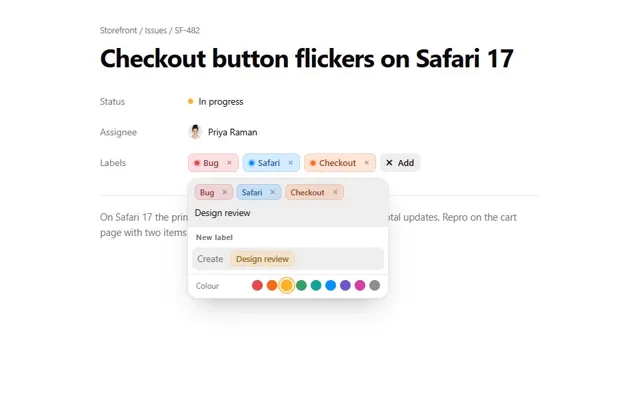
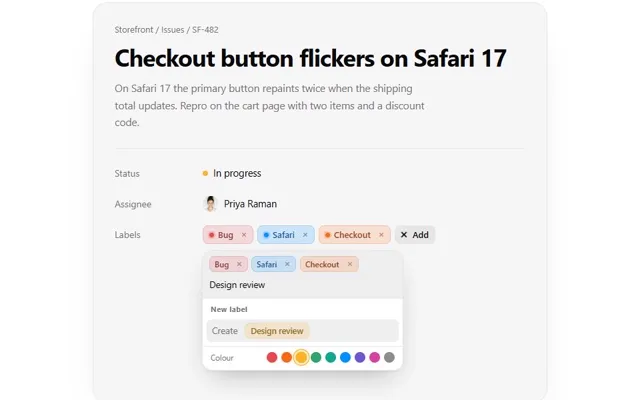
morph-filter-bar, inline-label-composer: popovers open over space, demos sized up
- filter picker drops below its chip row, leaves a dashed ghost in the + slot, and the
  demo dims and blurs the issue list behind it (new onOpenChange prop); bar sits above
  the list's stacking context so row rules no longer bleed through
- filter demo is 780 px wide with larger rows
- label demo is a 680 px issue panel with the description above the properties, so the
  picker opens over the panel's open space

diff --git a/components/morph-filter-bar/morph-filter-bar.tsx b/components/morph-filter-bar/morph-filter-bar.tsx
@@ -10,6 +10,8 @@ export type MorphFilterBarProps = {
   fields: FilterField[]
   defaultValue?: AppliedFilter[]
   onChange?: (filters: AppliedFilter[]) => void
+  /** Called when the picker opens or closes, e.g. to dim the results behind it. */
+  onOpenChange?: (open: boolean) => void
   title?: string
   className?: string
 }
@@ -49,7 +51,7 @@ const SOFT =
 
 const CSS =
   ".mfb-root{--mfb-ink:#121212;--mfb-ink2:#1f1f1f;--mfb-lime:#d6ff5c;--mfb-text:#f4f4ef;--mfb-dim:rgba(244,244,239,.5);--mfb-chip:#fff;--mfb-cink:#18181a;--mfb-cdim:#76767c;--mfb-spring:" + SPRING + ";--mfb-soft:" + SOFT + ";" +
-  "font-family:'Inter Tight','Geist',ui-sans-serif,system-ui,sans-serif;-webkit-font-smoothing:antialiased;color:var(--color-foreground);animation:mfb-in .6s var(--mfb-soft) both}" +
+  "position:relative;z-index:2;font-family:'Inter Tight','Geist',ui-sans-serif,system-ui,sans-serif;-webkit-font-smoothing:antialiased;color:var(--color-foreground);animation:mfb-in .6s var(--mfb-soft) both}" +
   ".mfb-title{display:flex;align-items:baseline;gap:10px;margin:0 0 12px;font-size:13px;font-weight:650;letter-spacing:-.01em}" +
   ".mfb-title span{font-size:12px;font-weight:550;color:var(--color-muted-foreground);font-variant-numeric:tabular-nums}" +
   ".mfb-clear{margin-left:auto;border:0;background:none;padding:2px 4px;border-radius:6px;font:inherit;font-size:12px;font-weight:600;color:var(--color-muted-foreground);cursor:pointer;outline:none}" +
@@ -70,8 +72,10 @@ const CSS =
   ".mfb-add{position:relative;width:36px;height:34px;flex:none}" +
   ".mfb-morph{position:absolute;z-index:30;top:0;left:0;width:36px;height:34px;border-radius:11px;overflow:hidden;color:var(--mfb-text);" +
   "background:radial-gradient(120% 90% at 0% 0%,#2b2b2b,var(--mfb-ink) 60%);box-shadow:inset 0 1px 0 rgba(255,255,255,.1),0 1px 2px rgba(0,0,0,.25),0 8px 18px -8px rgba(0,0,0,.45);" +
-  "transition:width .55s var(--mfb-spring),height .55s var(--mfb-spring),border-radius .45s var(--mfb-soft),box-shadow .3s}" +
-  ".mfb-root[data-open=true] .mfb-morph{width:min(272px,calc(100vw - 48px));border-radius:16px;box-shadow:inset 0 1px 0 rgba(255,255,255,.1),0 2px 4px rgba(0,0,0,.2),0 24px 50px -16px rgba(0,0,0,.55),0 50px 90px -40px rgba(30,40,0,.45)}" +
+  "transition:width .55s var(--mfb-spring),height .55s var(--mfb-spring),top .5s var(--mfb-spring),border-radius .45s var(--mfb-soft),box-shadow .3s}" +
+  ".mfb-add::before{content:'';position:absolute;inset:0;border-radius:11px;outline:1.5px dashed color-mix(in oklab,var(--color-foreground) 28%,transparent);outline-offset:-1.5px;opacity:0;transition:opacity .25s}" +
+  ".mfb-root[data-open=true] .mfb-add::before{opacity:1}" +
+  ".mfb-root[data-open=true] .mfb-morph{top:44px;width:min(272px,calc(100vw - 48px));border-radius:16px;box-shadow:inset 0 1px 0 rgba(255,255,255,.1),0 2px 4px rgba(0,0,0,.2),0 24px 50px -16px rgba(0,0,0,.55),0 50px 90px -40px rgba(30,40,0,.45)}" +
   ".mfb-plus{position:absolute;inset:0;width:36px;height:34px;display:grid;place-items:center;border:0;background:none;color:inherit;cursor:pointer;outline:none;border-radius:11px;transition:opacity .2s,transform .45s var(--mfb-spring)}" +
   ".mfb-plus:hover svg{transform:rotate(90deg)}.mfb-plus svg{transition:transform .45s var(--mfb-spring)}" +
   ".mfb-plus:focus-visible{box-shadow:inset 0 0 0 2px var(--mfb-lime)}" +
@@ -108,7 +112,7 @@ const Glyph = ({ d, size = 14 }: { d: string; size?: number }) => (
 
 const Mark = ({ o }: { o?: FilterOption }) => (o?.avatar ? <img className="mfb-av" src={o.avatar} alt="" width={18} height={18} /> : o?.swatch ? <span className="mfb-sw" style={{ background: o.swatch }} /> : null)
 
-export function MorphFilterBar({ fields, defaultValue = [], onChange, title = "Filters", className }: MorphFilterBarProps) {
+export function MorphFilterBar({ fields, defaultValue = [], onChange, onOpenChange, title = "Filters", className }: MorphFilterBarProps) {
   const id = useId()
   const [applied, setApplied] = useState(defaultValue)
   const [leaving, setLeaving] = useState("")
@@ -139,6 +143,10 @@ export function MorphFilterBar({ fields, defaultValue = [], onChange, title = "F
   }, [open])
 
   useEffect(() => () => clearTimeout(timer.current), [])
+
+  useEffect(() => {
+    onOpenChange?.(open)
+  }, [open])
 
   const commit = (next: AppliedFilter[]) => {
     setApplied(next)

diff --git a/components/inline-label-composer/demo.tsx b/components/inline-label-composer/demo.tsx
@@ -23,41 +23,53 @@ export default function Demo() {
         display: "flex",
         justifyContent: "center",
         alignItems: "flex-start",
-        padding: "max(48px, 12vh) 16px 48px",
+        padding: "max(40px, 8vh) 16px 48px",
         background: "var(--color-background)",
         color: "var(--color-foreground)",
         fontFamily: "'Inter Tight', ui-sans-serif, system-ui, sans-serif",
       }}
     >
-      <article style={{ width: "min(660px, 100%)" }}>
-        <div style={{ fontSize: 12.5, color: "var(--color-muted-foreground)", marginBottom: 10 }}>Storefront / Issues / SF-482</div>
-        <h1 style={{ margin: "0 0 22px", fontSize: 38, fontWeight: 700, letterSpacing: "-0.03em", lineHeight: 1.1 }}>Checkout button flickers on Safari 17</h1>
-        <div style={row}>
-          <span style={key}>Status</span>
-          <span style={{ fontSize: 13.5, display: "inline-flex", alignItems: "center", gap: 8 }}>
-            <span style={{ width: 8, height: 8, borderRadius: 99, background: "#ffb224" }} /> In progress
-          </span>
-        </div>
-        <div style={row}>
-          <span style={key}>Assignee</span>
-          <span style={{ fontSize: 13.5, display: "inline-flex", alignItems: "center", gap: 8 }}>
-            <img
-              src="https://images.unsplash.com/photo-1580489944761-15a19d654956?w=64&h=64&fit=crop&crop=faces&q=70"
-              alt=""
-              width={22}
-              height={22}
-              style={{ borderRadius: 99, objectFit: "cover", maxWidth: "none" }}
-            />
-            Priya Raman
-          </span>
-        </div>
-        <div style={row}>
-          <span style={key}>Labels</span>
-          <InlineLabelComposer labels={labels} defaultValue={["bug", "safari", "checkout"]} />
-        </div>
-        <p style={{ marginTop: 26, fontSize: 14.5, lineHeight: 1.65, color: "var(--color-muted-foreground)", borderTop: "1px solid var(--color-border)", paddingTop: 20 }}>
+      <article
+        style={{
+          width: "min(680px, 100%)",
+          minHeight: 600,
+          padding: "30px 32px 32px",
+          borderRadius: 22,
+          background: "color-mix(in oklab, var(--color-background) 97%, var(--color-foreground))",
+          boxShadow: "0 0 0 1px var(--color-border), 0 30px 60px -40px rgba(0,0,0,.35)",
+        }}
+      >
+        <div style={{ fontSize: 13, color: "var(--color-muted-foreground)", marginBottom: 12 }}>Storefront / Issues / SF-482</div>
+        <h1 style={{ margin: "0 0 14px", fontSize: 36, fontWeight: 700, letterSpacing: "-0.03em", lineHeight: 1.1 }}>Checkout button flickers on Safari 17</h1>
+        <p style={{ margin: "0 0 26px", fontSize: 15.5, lineHeight: 1.65, color: "var(--color-muted-foreground)", maxWidth: "56ch" }}>
           On Safari 17 the primary button repaints twice when the shipping total updates. Repro on the cart page with two items and a discount code.
         </p>
+        <div style={{ borderTop: "1px solid var(--color-border)", paddingTop: 14 }}>
+          <div style={row}>
+            <span style={key}>Status</span>
+            <span style={{ fontSize: 14.5, display: "inline-flex", alignItems: "center", gap: 8 }}>
+              <span style={{ width: 8, height: 8, borderRadius: 99, background: "#ffb224" }} /> In progress
+            </span>
+          </div>
+          <div style={row}>
+            <span style={key}>Assignee</span>
+            <span style={{ fontSize: 14.5, display: "inline-flex", alignItems: "center", gap: 8 }}>
+              <img
+                src="https://images.unsplash.com/photo-1580489944761-15a19d654956?w=64&h=64&fit=crop&crop=faces&q=70"
+                alt=""
+                width={24}
+                height={24}
+                style={{ borderRadius: 99, objectFit: "cover", maxWidth: "none" }}
+              />
+              Priya Raman
+            </span>
+          </div>
+          {/* labels sit last, so the picker opens over the panel's open space instead of over text */}
+          <div style={row}>
+            <span style={key}>Labels</span>
+            <InlineLabelComposer labels={labels} defaultValue={["bug", "safari", "checkout"]} />
+          </div>
+        </div>
       </article>
     </div>
   )

diff --git a/components/morph-filter-bar/demo.tsx b/components/morph-filter-bar/demo.tsx
@@ -83,6 +83,7 @@ export default function Demo() {
   const [applied, setApplied] = useState([
     { key: "status", value: "progress" },
   ] as AppliedFilter[])
+  const [picking, setPicking] = useState(false)
   const shown = issues.filter((it) => applied.every((f) => (it as Record<string, string>)[f.key] === f.value))
 
   return (
@@ -98,15 +99,26 @@ export default function Demo() {
         fontFamily: "'Inter Tight', ui-sans-serif, system-ui, sans-serif",
       }}
     >
-      <div style={{ width: "min(680px, 100%)" }}>
-        <MorphFilterBar title="Issues · Spring launch" fields={fields} defaultValue={applied} onChange={setApplied} />
-        <ul style={{ listStyle: "none", margin: "22px 0 0", padding: 0, borderTop: "1px solid var(--color-border)", minHeight: 300 }}>
+      <div style={{ width: "min(780px, 100%)" }}>
+        <MorphFilterBar title="Issues · Spring launch" fields={fields} defaultValue={applied} onChange={setApplied} onOpenChange={setPicking} />
+        <ul
+          style={{
+            listStyle: "none",
+            margin: "26px 0 0",
+            padding: 0,
+            borderTop: "1px solid var(--color-border)",
+            minHeight: 340,
+            opacity: picking ? 0.28 : 1,
+            filter: picking ? "blur(1.5px)" : "none",
+            transition: "opacity .35s ease, filter .35s ease",
+          }}
+        >
           {shown.map((it) => {
             const st = opt("status", it.status)
             const who = opt("assignee", it.assignee)
             const pr = opt("priority", it.priority)
             return (
-              <li key={it.id} style={{ display: "flex", alignItems: "center", gap: 12, padding: "15px 4px", borderBottom: "1px solid var(--color-border)", fontSize: 15 }}>
+              <li key={it.id} style={{ display: "flex", alignItems: "center", gap: 12, padding: "18px 4px", borderBottom: "1px solid var(--color-border)", fontSize: 16 }}>
                 <span style={{ width: 9, height: 9, borderRadius: 99, flex: "none", background: st?.swatch }} title={st?.label} />
                 <span style={{ fontSize: 12, color: "var(--color-muted-foreground)", fontVariantNumeric: "tabular-nums", width: 62, flex: "none" }}>{it.id}</span>
                 <span style={{ flex: 1, minWidth: 0, whiteSpace: "nowrap", overflow: "hidden", textOverflow: "ellipsis", fontWeight: 520 }}>{it.title}</span>

diff --git a/components/morph-filter-bar/README.md b/components/morph-filter-bar/README.md
@@ -23,6 +23,7 @@ import MorphFilterBar from "@/components/ui/morph-filter-bar"
 | `fields` | required | `{ key, label, icon?, options: { value, label, swatch?, avatar? }[] }[]`. `icon` is an SVG path on a 24-unit grid. |
 | `defaultValue` | `[]` | `{ key, value }[]`. One filter per field; picking a new value replaces the old one. |
 | `onChange` | none | Called with the full filter list. |
+| `onOpenChange` | none | Called when the picker opens or closes, e.g. to dim the results behind it. |
 | `title` | `"Filters"` | Label above the row, with a count and "Clear all". |
 
 ## Notes
